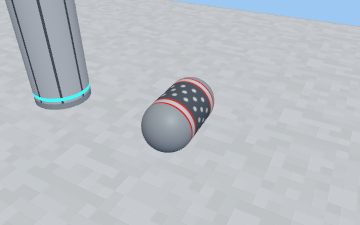
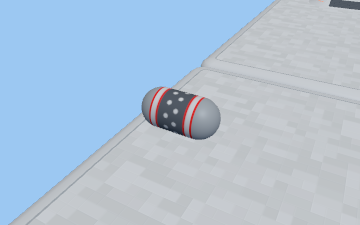
Beans: facing modes, ball-fat, len 2; tune panel trims; thumbs for 13 and 14
Beans keep one orientation, or with `face` "follow" turn to lie along their way, tip
first, flipping on the return, heading blended between segments so tight circles turn
smoothly; the capsule is laid flat then yawed, so its pattern never rolls. Every bean is
as fat as the ball (no `r` field) and 2 long by default; its kick is a fixed 0.5.
Bumper bounce and kick and magnet force and hold leave the tune panel and are never
read back from the browser. Level 13's card frames its first wall jump, level 14's a
ground magnet; thumbnails rebuilt.

diff --git a/src/level.ts b/src/level.ts
@@ -662,18 +662,21 @@ export function moverShift(p: Mover, t: number): { x: number; y: number; z: numb
 
 // Bean: a striped capsule prop that glides along a node path laid out like a tube's and shoves
 // whatever it meets out of its way. (x, y, z) is its first node and `path` the rest, relative to it
-// before `rot`; a node's y is the surface the bean rolls on there, its centre `r` above it. `bend`
+// before `rot`; a node's y is the surface the bean rolls on there, its centre `r` (the ball's radius) above it. `bend`
 // rounds a corner, `mid` curves a segment and `smooth` makes the path one curve, as on a tube. It
 // lies along the way it sets off (turned `turn` degrees from that about the vertical: 90 lies it
-// across it) and keeps that one orientation for the whole run, never rolling or turning, `len` from
-// tip to tip, and glides BEAN_LIFT above the surface at `speed`: `pingpong`
+// across it) and keeps that one orientation for the whole run, or with `face` "follow" turns to
+// keep lying along the way it is going (turned `turn`), its tip leading, round every bend and
+// back on the return. It never rolls, is `len` from tip to tip, and glides BEAN_LIFT above the
+// surface at `speed`: `pingpong`
 // runs the path out and back, easing out of and into a stop at each end and waiting `wait` seconds
 // there; `loop` closes the path with a straight run from the last node back to the first (that
 // corner rounded like the last node's; a last node placed on the first closes it itself, with that
 // segment's curve) and goes round without a pause. `offset` starts it that many seconds into its
 // schedule. Its place is a pure function of time, so the physics, the picture and the editor agree.
 export type Bean = Piece & { type: "bean" };
-export const BEAN_R = 0.6, BEAN_LEN = 2.4, BEAN_SPEED = 6;
+// A bean is as fat as the ball; its `r` is always BEAN_R, never set per bean.
+export const BEAN_R = BALL_RADIUS, BEAN_LEN = 2, BEAN_SPEED = 6;
 // A bean floats this far above the surface it follows.
 export const BEAN_LIFT = 0.05;
 // Over this distance a ping-pong bean rolls up to speed from a stop and back down into one.
@@ -759,9 +762,9 @@ export function beanDist(p: Bean, len: number, t: number): number {
   return u < wait ? len : len - run(u - wait);
 }
 
-// The bean's centre and turn in world space at time t: its turn is fixed, lying along the track's
-// first segment turned `turn` degrees about the vertical, however the track winds on. `d` is the
-// level heading along the track there.
+// The bean's centre and turn in world space at time t: lying along the track's first segment
+// turned `turn` degrees about the vertical, however the track winds on, or, following, along its
+// way there with its tip leading, flipped on the return. `d` is the level heading along the track.
 export interface BeanPose { x: number; y: number; z: number; q: Quat; d: V3 }
 export function beanAt(p: Bean, track: BeanTrack, t: number): BeanPose {
   const s = beanDist(p, track.len, t), pts = track.pts, n = pts.length;
@@ -769,13 +772,35 @@ export function beanAt(p: Bean, track: BeanTrack, t: number): BeanPose {
   for (let lo = 0, hi = n - 2; lo <= hi; ) { const m = (lo + hi) >> 1; if (track.s[m + 1]! < s) lo = m + 1; else { i = m; hi = m - 1; } }
   const a = pts[Math.min(i, n - 1)]!, b = pts[Math.min(i + 1, n - 1)]!, L = track.s[i + 1] !== undefined ? track.s[i + 1]! - track.s[i]! : 0;
   const f = L > 1e-9 ? (s - track.s[i]!) / L : 0, c = add(a, sub(b, a), f);
-  const fwd = rotXZ(0, -1, p.rot);
+  const fwd = rotXZ(0, -1, p.rot), m = n - 1;
+  // The level heading of segment k, or the piece's own where a segment has no run.
+  const seg = (k: number): V3 => {
+    const u = pts[k]!, v = pts[k + 1]!, h = Math.hypot(v[0] - u[0], v[2] - u[2]);
+    return h > 1e-6 ? [(v[0] - u[0]) / h, 0, (v[2] - u[2]) / h] : [fwd.x, 0, fwd.z];
+  };
+  // The track turns at each point of its line, so blend each segment's heading with its neighbour's
+  // across the halves either side of that point; a loop's line closes, so its ends neighbour each other.
+  const closed = m > 1 && Math.hypot(...sub(pts[0]!, pts[m]!)) < 1e-6;
+  const near = (k: number) => (closed ? (k + m) % m : Math.max(0, Math.min(m - 1, k)));
   let d: V3 = [fwd.x, 0, fwd.z];
-  if (L > 1e-9) { const h = Math.hypot(b[0] - a[0], b[2] - a[2]); if (h > 1e-6) d = [(b[0] - a[0]) / h, 0, (b[2] - a[2]) / h]; }
-  let d0: V3 = [fwd.x, 0, fwd.z];
-  if (n > 1) { const h0 = Math.hypot(pts[1]![0] - pts[0]![0], pts[1]![2] - pts[0]![2]); if (h0 > 1e-6) d0 = [(pts[1]![0] - pts[0]![0]) / h0, 0, (pts[1]![2] - pts[0]![2]) / h0]; }
-  const axis = rotXZ(d0[0], d0[2], p.turn ?? 0);
-  return { x: c[0], y: c[1], z: c[2], q: quatYTo(axis.x, 0, axis.z), d };
+  if (m > 0) {
+    const here = seg(i), other = seg(near(f < 0.5 ? i - 1 : i + 1)), w = Math.abs(f - 0.5);
+    const bx = here[0] * (1 - w) + other[0] * w, bz = here[2] * (1 - w) + other[2] * w, bh = Math.hypot(bx, bz);
+    d = bh > 1e-6 ? [bx / bh, 0, bz / bh] : here;
+  }
+  const d0: V3 = m > 0 ? seg(0) : [fwd.x, 0, fwd.z];
+  let along = d0;
+  if (p.face === "follow") {
+    // Which way it is travelling: forward unless the next instant is behind this one, or, held
+    // at a stop, unless it came in backwards.
+    let dir = Math.sign(beanDist(p, track.len, t + 1e-3) - s);
+    if (dir === 0) dir = Math.sign(s - beanDist(p, track.len, t - 1e-3)) || 1;
+    along = [d[0] * dir, 0, d[2] * dir];
+  }
+  const axis = rotXZ(along[0], along[2], p.turn ?? 0);
+  // Laid flat along +x, then yawed to the axis: a shortest-arc turn would roll its pattern as the heading sweeps.
+  const q = quatMul(quatAboutY(Math.atan2(-axis.z, axis.x)), quatYTo(1, 0, 0));
+  return { x: c[0], y: c[1], z: c[2], q, d };
 }
 
 // Older levels fence a platform's sides on the platform itself: per side true along its whole
@@ -803,7 +828,7 @@ export type Piece =
   | (At & { type: "crate"; w: number; h: number; d: number; rot: number; roll?: number })
   | (At & { type: "barrel"; r: number; h: number; rot: number; roll?: number })
   | (At & { type: "stool"; w: number; h: number; d: number; rot: number; track: number; offset: number; slide?: "z" })
-  | (At & { type: "bean"; rot: number; r: number; len: number; speed: number; wait: number; offset: number; loop: MoverLoop; turn?: number; path: TubeNode[]; smooth?: true })
+  | (At & { type: "bean"; rot: number; r: number; len: number; speed: number; wait: number; offset: number; loop: MoverLoop; turn?: number; face?: "follow"; path: TubeNode[]; smooth?: true })
   | (At & { type: "jump"; w: number; d: number; rot: number; rise: number; roll?: number })
   | (At & { type: "hole"; w: number; d: number; rot: number })
   | (At & { type: "spinner"; length: number; speed: number })
@@ -1673,8 +1698,8 @@ export function validateLevel(raw: unknown): Level {
       case "stool": return { type: "stool", ...at, w: num(p.w ?? STOOL_W, "w"), h: num(p.h ?? STOOL_H, "h"), d: num(p.d ?? STOOL_D, "d"), rot: num(p.rot ?? 0, "rot"),
         track: num(p.track ?? STOOL_TRACK, "track"), offset: num(p.offset ?? 0, "offset"), ...(p.slide === "z" ? { slide: "z" as const } : {}) };
       case "hole": return { type: "hole", ...at, w: num(p.w, "w"), d: num(p.d, "d"), rot: num(p.rot ?? 0, "rot") };
-      case "bean": return { type: "bean", ...at, rot: num(p.rot ?? 0, "rot"), r: num(p.r ?? BEAN_R, "r"), len: num(p.len ?? BEAN_LEN, "len"), speed: num(p.speed ?? BEAN_SPEED, "speed"),
-        wait: num(p.wait ?? 0, "wait"), offset: num(p.offset ?? 0, "offset"), loop: p.loop === "loop" ? "loop" : "pingpong", ...(p.turn ? { turn: num(p.turn, "turn") } : {}), path: parsePath(p.path ?? [], i), ...(p.smooth === true ? { smooth: true as const } : {}) };
+      case "bean": return { type: "bean", ...at, rot: num(p.rot ?? 0, "rot"), r: BEAN_R, len: num(p.len ?? BEAN_LEN, "len"), speed: num(p.speed ?? BEAN_SPEED, "speed"),
+        wait: num(p.wait ?? 0, "wait"), offset: num(p.offset ?? 0, "offset"), loop: p.loop === "loop" ? "loop" : "pingpong", ...(p.turn ? { turn: num(p.turn, "turn") } : {}), ...(p.face === "follow" ? { face: "follow" as const } : {}), path: parsePath(p.path ?? [], i), ...(p.smooth === true ? { smooth: true as const } : {}) };
       case "spinner": return { type: "spinner", ...at, length: num(p.length, "length"), speed: num(p.speed, "speed") };
       case "goal": return { type: "goal", ...at, r: GOAL_R };
       case "tube": return { type: "tube", ...at, rot: num(p.rot ?? 0, "rot"), path: parsePath(p.path, i), ...(p.smooth === true ? { smooth: true as const } : {}) };

diff --git a/src/editor.ts b/src/editor.ts
@@ -53,7 +53,7 @@ const NUM_FIELDS: Record<PieceType, [key: string, step: number][]> = {
   crate: [["w", 0.1], ["h", 0.1], ["d", 0.1], ["rot", 15], ["roll", 15]],
   barrel: [["r", 0.1], ["h", 0.1], ["rot", 15], ["roll", 15]],
   stool: [["w", 0.5], ["h", 0.1], ["d", 0.5], ["rot", 15], ["track", 1], ["offset", 0.5]],
-  bean: [["rot", 15], ["turn", 15], ["r", 0.1], ["len", 0.1], ["speed", 0.5], ["wait", 0.5], ["offset", 0.5]],
+  bean: [["rot", 15], ["turn", 15], ["len", 0.1], ["speed", 0.5], ["wait", 0.5], ["offset", 0.5]],
   jump: [["w", 0.5], ["d", 0.5], ["rot", 15], ["roll", 15], ["rise", 0.5]],
   hole: [["w", 0.5], ["d", 0.5], ["rot", 15]],
   pillar: [["rot", 15], ["roll", 15]],
@@ -581,6 +581,15 @@ export class Editor implements Mode {
           h("option", { value: "loop", selected: p.loop === "loop" }, "loop: last node back to start"),
         ) as HTMLSelectElement;
         props.append(h("label", {}, "route", loop));
+        const face = h("select", { title: "Fixed keeps the bean lying one way (along its first segment, turned by turn) for the whole run; follow turns it to lie along its way, tip first, round every bend and back on the return", onchange: () => {
+          const before = JSON.stringify(this.level);
+          if (face.value === "follow") p.face = "follow"; else delete p.face;
+          this.commit(before);
+        } },
+          h("option", { value: "fixed", selected: p.face !== "follow" }, "fixed: one way all run"),
+          h("option", { value: "follow", selected: p.face === "follow" }, "follow: tip leads the path"),
+        ) as HTMLSelectElement;
+        props.append(h("label", {}, "facing", face));
       }
       this.body.append(h("h3", {}, `${p.type} #${index}`), props);
       if (p.type === "tube" || p.type === "rails" || p.type === "fence" || p.type === "bean") this.body.append(this.tubePanel(p));

diff --git a/src/sim.ts b/src/sim.ts
@@ -24,7 +24,7 @@ const STOOL_MASS = 1.5, STOOL_DAMPING = 3, STOOL_LIFT = 0.02;
 const PROP_MASS = 0.2, PROP_FRICTION = 0.35, PROP_RESTITUTION = 0.1;
 // A bean's skin: slippery, so it shoves the ball on rather than dragging it along.
 const BEAN_FRICTION = 0.3;
-// A bean throws the ball off itself like a bumper's side, at this share of the bumper's kick.
+// A bean throws the ball off itself like a bumper's side, never slower than this.
 const BEAN_KICK = 0.5;
 // A gate's chain link: light beside the cube it holds.
 const GATE_LINK_MASS = 0.02;
@@ -822,7 +822,7 @@ export async function createSim(level: Level, from?: { x: number; y: number; z: 
         const n = qrot(q, { x: rx / d, y: ry / d, z: rz / d }), bv = bn.vel;
         const vin = (v0.x - bv.x) * n.x + (v0.y - bv.y) * n.y + (v0.z - bv.z) * n.z;
         if (vin >= 0) continue;
-        const v = ball.linvel(), vn = (v.x - bv.x) * n.x + (v.y - bv.y) * n.y + (v.z - bv.z) * n.z, out = Math.max(TUNING.bumperKick * BEAN_KICK, -vin * TUNING.bumperBounce);
+        const v = ball.linvel(), vn = (v.x - bv.x) * n.x + (v.y - bv.y) * n.y + (v.z - bv.z) * n.z, out = Math.max(BEAN_KICK, -vin * TUNING.bumperBounce);
         if (vn < out) ball.setLinvel({ x: v.x + n.x * (out - vn), y: v.y + n.y * (out - vn), z: v.z + n.z * (out - vn) }, true);
       }
       for (const pl of planks) if (pl.frozen && touchedByMover(world, pl.frozen)) { pl.body.setBodyType(RAPIER.RigidBodyType.Dynamic, true); pl.frozen = undefined; }

diff --git a/src/game.ts b/src/game.ts
@@ -3,7 +3,7 @@ import { Input } from "./input.ts";
 import { BALL_RADIUS, GOAL_BEAM_H, moverAt, moverShift, type Level } from "./level.ts";
 import { buildLevel, createScene, fitSun, makeBall, posePlank, turnBelts, type Built, type SceneEnv } from "./scene.ts";
 import { STEP, createSim, type Sim } from "./sim.ts";
-import { DEFAULT_TUNING, PLAYER_KEYS, TUNING, TUNING_RANGES, resetTuning, saveTuning, type TuningKey } from "./tuning.ts";
+import { DEFAULT_TUNING, FIXED_KEYS, PLAYER_KEYS, TUNING, TUNING_RANGES, resetTuning, saveTuning, type TuningKey } from "./tuning.ts";
 import { clear, fmtTime, h } from "./ui.ts";
 import type { Ctx, Mode } from "./main.ts";
 
@@ -262,7 +262,7 @@ export class Game implements Mode {
     if (this.tunePanel) { this.tunePanel.remove(); this.tunePanel = null; return; }
     const out = h("textarea", { readOnly: true });
     const refresh = () => { out.value = JSON.stringify(TUNING, null, 1); };
-    const rows = (Object.keys(TUNING) as TuningKey[]).filter((k) => !PLAYER_KEYS.includes(k)).map((k) => {
+    const rows = (Object.keys(TUNING) as TuningKey[]).filter((k) => !PLAYER_KEYS.includes(k) && !FIXED_KEYS.includes(k)).map((k) => {
       const [min, max, step] = TUNING_RANGES[k];
       const val = h("span", {}, String(TUNING[k]));
       const range = h("input", { type: "range", min, max, step, value: TUNING[k],

diff --git a/src/tuning.ts b/src/tuning.ts
@@ -58,6 +58,8 @@ export const TUNING_RANGES: Record<TuningKey, [min: number, max: number, step: n
 export const DEFAULT_TUNING: Tuning = { ...TUNING };
 // The player's own settings (Options and the pause menu), kept out of the tune panel and its Reset.
 export const PLAYER_KEYS: TuningKey[] = ["yawRate", "mouseSens", "camDist", "camHeight"];
+// Settled values: not in the tune panel and never read back from the browser, so they are what the code says.
+export const FIXED_KEYS: TuningKey[] = ["bumperBounce", "bumperKick", "magnetForce", "magnetHold"];
 const KEY = "balling.tuning";
 
 export function loadTuning(): void {
@@ -65,6 +67,7 @@ export function loadTuning(): void {
   try {
     const saved = JSON.parse(localStorage.getItem(KEY) ?? "{}") as Partial<Tuning>;
     for (const k of Object.keys(TUNING) as TuningKey[]) {
+      if (FIXED_KEYS.includes(k)) continue;
       const v = saved[k];
       if (typeof v !== "number" || !Number.isFinite(v)) continue;
       const [lo, hi] = TUNING_RANGES[k];

diff --git a/docs/levels.md b/docs/levels.md
@@ -4,9 +4,9 @@
 
 Aerox-style: left / right swings the camera around the ball, up / down rolls it toward or away from the camera.
 Keyboard arrows or WASD, mouse drag (either button) to turn the camera and heading as you drag, touch drag as a virtual stick, or device tilt (the "Tilt to steer" switch under Options or in the pause menu; iOS asks for motion access, and the angle the device is held at when it is switched on, or when a level starts, counts as level).
-In a level played from the admin panel or the editor: `T` or the Tune button opens the feel-tuning panel (gravity, throttle, climb assist, speed cap, damping, tilt range, the camera's pitch, bumper and magnet strength, and the gravity scale shared by movable props: crates, bridge planks and knock-down planks; its Reset leaves the player's own settings alone), `R` respawns (and so does falling 8 below the level's lowest platform, ramp end, path node, moving-platform stop or prop: `respawnY` in level.ts; a crate or barrel that falls that far goes back to where it started), `Esc` or the Menu button pauses and opens the in-game menu (Resume, Restart, Settings, Quit; Settings shows the player's settings with Back to the menu). The player's settings, there and under Options on the home screen: turn speed, mouse sensitivity, camera distance (3 to 7, default 4), camera height (1 to 4, default 2) and tilt to steer.
+In a level played from the admin panel or the editor: `T` or the Tune button opens the feel-tuning panel (gravity, throttle, climb assist, speed cap, damping, tilt range, the camera's pitch, and the gravity scale shared by movable props: crates, bridge planks and knock-down planks; its Reset leaves the player's own settings alone), `R` respawns (and so does falling 8 below the level's lowest platform, ramp end, path node, moving-platform stop or prop: `respawnY` in level.ts; a crate or barrel that falls that far goes back to where it started), `Esc` or the Menu button pauses and opens the in-game menu (Resume, Restart, Settings, Quit; Settings shows the player's settings with Back to the menu). The player's settings, there and under Options on the home screen: turn speed, mouse sensitivity, camera distance (3 to 7, default 4), camera height (1 to 4, default 2) and tilt to steer.
 The speed cap (`maxSpeed`, 8) limits only the player's own push: throttle and climb assist never take the ball's level speed (over the ground, or over a moving platform carrying it) past it, and at the cap the push still turns the ball without speeding it up, but bumpers, jump pads, slopes, magnets and props can carry it faster, and damping then slows it back. Wall grip (`wallGrip`, 1): while the ball is off the ground and pressed against the big face of a slab tilted or rolled near upright (a wall; not its edges, a platform's side, a fence or a block), that face carries up to that share of its weight, no more than the press allows (steer into the wall to press harder), so hugging a wall carries a jump further. Climb assist (`climbAssist`, 0.4 by default) cancels that share of gravity's pull down a slope while the ball is pushed up it, but only the part of the pull straight against the push: driving across a slanted platform, or up it at an angle, the ball still slides sideways down it as it would with no assist.
-Tuning values persist in the browser; the panel's Copy button gives them as JSON to paste into `src/tuning.ts`.
+Tuning values persist in the browser; the panel's Copy button gives them as JSON to paste into `src/tuning.ts`. Bumper bounce and kick and the magnet's force and hold are settled: they live in `src/tuning.ts` but are not in the panel and never read back from the browser.
 
 ## Levels
 
@@ -38,7 +38,7 @@ Each level is a JSON file in `src/levels/`, picked up automatically and listed i
 | `crate`   | x y z w h d rot                          | pushable box `w` × `h` × `d` (defaults 2, 1.2, 2; an older `s` sets all three), its corners rounded 0.22 (much more than other props), drawn and solid alike. Every face is a light grey plate with a dark cross and a framed screen where it crosses, and a glowing green bracket right on each corner. A free body under gravity resting on the surface at y; returns home if it falls off |
 | `barrel`  | x y z r h rot                            | pushable upright cylinder, a crate that is round: radius `r`, `h` tall (defaults 0.4, 1.4), rims rounded, white with a green ring near its foot and head and four framed circuit panels round its side; a free body under gravity resting on the surface at y, it can tip over and roll; returns home if it falls off |
 | `stool`   | x y z w h d rot track offset slide?      | tracked movement stool: a white block `w` × `h` × `d` (defaults 2 wide, 1.2 tall, 1 thick) on an invisible track `track` long (default 8) running along its local x (left and right), or its local z (front and back) when `slide` is `"z"` (the editor's slides button switches it), centred on (x, z), on the surface at y; the editor outlines the block at both ends of its slide and draws the line between, nothing shows in play. It slides along the track and nothing else, so it can only be pushed the way the green < > chevrons on the two faces it slides past point; the two faces it is pushed on carry ^ v, and stops at the track's ends; pushed from any other side it holds still like a wall. It starts `offset` along the track from the centre (clamped to the track). One and a half times the ball's weight and well damped, so the ball has to keep pushing to move it and it stops soon after. Snaps and takes its y like a structure; `track` must be at least `w`, or `d` when it slides front and back |
-| `bean`    | x y z rot r len speed wait offset loop turn? smooth? path[{x y z bend mid?}] | a gliding bean: a capsule `len` from tip to tip (default 2.4) and `r` thick (0.6), light grey at its rounded ends, then at each end of its straight part a red stripe, a white band and a red stripe, and between them a dark body in staggered rows of white dots, drawn to its size so the pattern never stretches. It lies along the way it sets off from its first node (`turn` degrees from that about the vertical: 90 lies it across it) and keeps that one orientation for the whole run, never rolling or turning however the path winds, and glides 0.05 above the surface along a node path laid out exactly like a `tube`'s ((x, y, z) is its first node and `path` the rest, relative to it before `rot`; `bend` rounds a corner, `mid` curves a segment, `smooth` makes the whole path one curve, the same handles and path panel in the editor) at `speed` (3), its centre `r` above each node's y, which is the surface it rolls on there (the editor sets it from whatever is under the node, so a bean follows steps and ramps node by node). `pingpong` (the default) rolls the path out and back, from rest up to speed over 1.5 and back down to rest over the last 1.5, waiting `wait` seconds at each end; `loop` closes the path with a straight run from the last node back to the first (the corner there rounded like the last node's; a last node placed on the first closes it itself, with that segment's curve, so two nodes each with a `mid` make a true circle, as do four on a `smooth` path) and goes round and round at its speed without a pause. `offset` starts it that many seconds into its schedule, to stagger several. It is a little bouncy: a ball that runs into it, or that it runs into, is thrown off it like off a bumper's side, relative to the bean's own motion, at the bumper's bounce share but never slower than half the bumper's kick. Its place is a pure function of time, so the physics, the picture and the editor's preview (the bean at its start, its track drawn on the surface) agree. It is solid as drawn and nothing stops it: a ball, crate, barrel or anything else free that it meets is shoved out of its way, off the platform if that is where it is going; the ball can't ride it, it never carries anything and it never rides a moving platform. So a straight bean sweeps a lane, a loop round a `pillar` or `column` guards it, and a zig-zag like a Z (sharp nodes, `bend` 0) covers a platform |
+| `bean`    | x y z rot len speed wait offset loop turn? face? smooth? path[{x y z bend mid?}] | a gliding bean: a capsule `len` from tip to tip (default 2), as thick as the ball, light grey at its rounded ends, then at each end of its straight part a red stripe, a white band and a red stripe, and between them a dark body in staggered rows of white dots, drawn to its size so the pattern never stretches. It lies along the way it sets off from its first node (`turn` degrees from that about the vertical: 90 lies it across it) and keeps that one orientation for the whole run however the path winds, or with `face` `follow` (the editor's facing picker) it turns to keep lying along its way, tip first, round every bend and back on the return (so `turn` 90 on a following bean round a circle keeps its long side to the centre). It never rolls, and glides 0.05 above the surface along a node path laid out exactly like a `tube`'s ((x, y, z) is its first node and `path` the rest, relative to it before `rot`; `bend` rounds a corner, `mid` curves a segment, `smooth` makes the whole path one curve, the same handles and path panel in the editor) at `speed` (6), its centre 0.5 above each node's y (it is as fat as the ball, always; `r` is not a field), which is the surface it glides over there (the editor sets it from whatever is under the node, so a bean follows steps and ramps node by node). `pingpong` (the default) rolls the path out and back, from rest up to speed over 1.5 and back down to rest over the last 1.5, waiting `wait` seconds at each end; `loop` closes the path with a straight run from the last node back to the first (the corner there rounded like the last node's; a last node placed on the first closes it itself, with that segment's curve, so two nodes each with a `mid` make a true circle, as do four on a `smooth` path) and goes round and round at its speed without a pause. `offset` starts it that many seconds into its schedule, to stagger several. It is a little bouncy: a ball that runs into it, or that it runs into, is thrown off it like off a bumper's side, relative to the bean's own motion, at the bumper's bounce share but never slower than 0.5. Its place is a pure function of time, so the physics, the picture and the editor's preview (the bean at its start, its track drawn on the surface) agree. It is solid as drawn and nothing stops it: a ball, crate, barrel or anything else free that it meets is shoved out of its way, off the platform if that is where it is going; the ball can't ride it, it never carries anything and it never rides a moving platform. So a straight bean sweeps a lane, a loop round a `pillar` or `column` guards it, and a zig-zag like a Z (sharp nodes, `bend` 0) covers a platform |
 | `hole`    | x y z w d rot                            | cutout through every slab whose top is at y; can cross slab edges to reshape the slab (see [platforms.md](platforms.md#holes)) |
 | `spinner` | x y z length speed                       | rotating bar, speed in rad/s |
 | `tube`    | x y z rot smooth? path[{x y z bend mid?}] | glass pipe just wide enough for the ball (a single glass skin of radius 0.51 against the ball's 0.5). (x, y, z) is one mouth; `path` lists the following nodes relative to it (before `rot`), the last being the other mouth. Node y is the tube's inner floor, so a mouth set on a platform top is flush with it and the ball rolls straight in. The path is straight segments between nodes; each in-between node's `bend` is the radius of the arc that rounds that corner (default 1.5), or 0 for a sharp mitred elbow. A node's optional `mid` {x y z} (relative, like the nodes) curves the segment arriving at it: seen from above the segment follows the circle through its start, `mid` and end, and its height changes smoothly along the whole curve through the three heights, so a curve that climbs climbs all the way round. A corner next to a curved segment is not rounded. With `smooth: true` the path is instead one smooth curve through every node with no corners at all (each node's heading points from the node before it to the node after; `bend` and `mid` are ignored); on rails it leaves and meets each end's stub along the stub's heading. New rails start smooth; the path panel's shape button switches a tube or rails between smooth curve and corners & arcs, and on a smooth path dragging the small dot between two nodes pulls a new node out there. Each mouth has a ring bent from the fences' rail round it (the hoop's ring), its opening exactly the bore and centred on the mouth so the tube's end sits inside it and the ring coats it, and solid. Nothing about a tube is checked: mouths, heights and turns are up to the designer. Nothing pushes the ball through: it runs either way, and inside the tube the player's push drives it along the tube, so a climb is made by holding forward against gravity and letting go slides it back. Collared mouths, both cyan |
